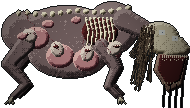
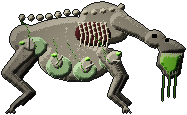
Mother Hollow redrawn as a giant Pallid Prowler
Claude-Session: https://claude.ai/code/session_01Jpd5tdDJTR7BVueAYV1KDM

diff --git a/ArtSource/make_boss_concepts.py b/ArtSource/make_boss_concepts.py
@@ -122,67 +122,59 @@ def orderly():
 
 # ------------------------------------------------------------------ MOTHER HOLLOW: a bloated pale pack-mother, her brood growing out of her flank
 def mother_hollow():
-    SKIN = ramp("#161213", "#2a2223", "#473a3b", "#6e5c5c", "#948280")
-    SKIN_F = ramp("#0b0909", "#151112", "#221b1c", "#352b2d", "#4a3e40")
-    SAC = ramp("#2a1418", "#4e2a30", "#7a4a4e", "#a87678", "#d0a8a2")
-    PUP = ramp("#2a2422", "#4e4440", "#7e716a", "#b0a398", "#d8cdc0")
-    HAIR = ramp("#0a0806", "#1a1410", "#2e241c", "#463a2e", "#665646")
+    # Built from the Pallid Prowler's own look (Resources/Sprites/Mutants/mutant_hd_pallid_prowler.png): a lean bone-grey hound with a ridged shoulder hump, thin long legs and an acid-green glowing maw. She is that, grown huge and swollen with her brood; the pups are small Pallid Prowlers pushing out of sacs, mouths already green.
+    SKIN = ramp("#1a1916", "#363329", "#625d50", "#958e7c", "#c4bca8")
+    SKIN_F = ramp("#0d0c0b", "#181714", "#27251f", "#3d3a31", "#57534a")
+    SAC = ramp("#1c241a", "#36482e", "#5e7a50", "#8fb07c", "#c4e0b0")
+    PUP = ramp("#2a2822", "#4c493e", "#797464", "#a9a390", "#d4cdb8")
+    GREEN = ramp("#0c2606", "#1f5a0c", "#46a018", "#82e034", "#d2ff90")
     S = (212, 128); L, part = mk(S); rnd = random.Random(11)
-    # far legs, long and wrong-jointed
-    part(lambda m: m.tube([(132, 66), (142, 88), (134, 104), (144, 114)], [9, 6, 4.4, 3.4]), SKIN_F, tex=0.1, seed=1)
-    part(lambda m: m.tube([(54, 70), (40, 90), (52, 106), (42, 116)], [11, 7, 5, 3.6]), SKIN_F, tex=0.1, seed=2)
-    # the body: a bloated barrel, the belly sagging nearly to the ground, hips narrow, the spine a ridge
-    part(lambda m: m.ell(84, 50, 44, 24, -5).ell(90, 74, 40, 24, 2).ell(134, 48, 26, 26, 8).ell(44, 52, 20, 20, 0), SKIN, tex=0.18, seed=3, depth=7.0)
+    # far legs: thin and long like the Prowler's, folded too far
+    part(lambda m: m.tube([(132, 66), (146, 90), (138, 106), (150, 116)], [8, 5.4, 4, 3]), SKIN_F, tex=0.1, seed=1)
+    part(lambda m: m.tube([(54, 70), (38, 92), (54, 106), (44, 116)], [10, 6.4, 4.6, 3.2]), SKIN_F, tex=0.1, seed=2)
+    # the body: the Prowler's hunched hump of shoulder, a narrow chest, the belly swollen and hanging
+    part(lambda m: m.ell(84, 46, 40, 15, -6).ell(126, 36, 26, 20, 16).ell(46, 52, 15, 14, 0).ell(96, 74, 36, 20, 2), SKIN, tex=0.16, seed=3, depth=5.5)
     sp = Mask(S)
-    for i in range(14): x = 150 - i * 8.4; sp.ell(x, 28 + abs(math.sin(i * 0.5)) * 3 + (i * 0.35), 3.0 - i * 0.05, 2.6)
+    for i in range(12): x = 142 - i * 9; sp.ell(x, 20 + abs(math.sin(i * 0.55)) * 2.5 + (i * 0.9), 3.0 - i * 0.05, 2.7)
     L.append(shade(sp, BONE, depth=1.7))
-    # ribs splayed through the near flank
     rb = Mask(S)
-    for k in range(7): x0 = 108 + k * 4.2; rb.tube([(x0, 38), (x0 + 3, 52 + k * 0.6), (x0 + 1, 66)], [2.2, 2.0, 1.2])
+    for k in range(7): x0 = 100 + k * 4.4; rb.tube([(x0, 36), (x0 + 3, 48 + k * 0.6), (x0 + 1, 60)], [2.2, 2.0, 1.2])
     L.append(shade(rb, BONE, depth=1.3))
-    cav = Mask(S); cav.ell(122, 52, 18, 14, 4); L.insert(len(L) - 1, shade(cav, DARK, depth=2.2, tex=0.08, seed=5))
-    # the brood: sacs along the flank and belly, a pup's head pushing out of each, jaws working
-    for (cx, cy, r) in ((58, 58, 13), (82, 76, 14), (108, 80, 13), (132, 72, 11)):
-        part(lambda m, a=(cx, cy, r): m.ell(a[0], a[1], a[2], a[2] * 0.85), SAC, tex=0.12, seed=cx, depth=3.2)
-    # near legs
-    part(lambda m: m.tube([(124, 66), (138, 88), (130, 106), (142, 118)], [15, 10, 7, 5]), SKIN, tex=0.12, seed=6, bias=-0.1)
-    part(lambda m: m.tube([(48, 64), (30, 84), (48, 104), (34, 118)], [18, 12, 8, 5]), SKIN, tex=0.12, seed=7, bias=-0.1)
+    cav = Mask(S); cav.ell(114, 47, 18, 12, 4); L.insert(len(L) - 1, shade(cav, DARK, depth=2.2, tex=0.08, seed=5))
+    # the brood: pale sacs with green veins along the belly and flank
+    for (cx, cy, r) in ((56, 60, 12), (80, 80, 13), (106, 84, 12), (130, 74, 10)):
+        part(lambda m, a=(cx, cy, r): m.ell(a[0], a[1], a[2], a[2] * 0.85), SAC, tex=0.14, seed=cx, depth=3.2)
+    part(lambda m: m.tube([(124, 66), (140, 90), (132, 108), (146, 120)], [13, 8.4, 6, 4.4]), SKIN, tex=0.12, seed=6, bias=-0.1)
+    part(lambda m: m.tube([(48, 64), (28, 86), (50, 106), (34, 120)], [16, 10, 6.4, 4.4]), SKIN, tex=0.12, seed=7, bias=-0.1)
     pw = Mask(S)
-    for dx in (-4, 0, 4): pw.tube([(142, 118), (144 + dx, 124)], [2.0, 0.8]); pw.tube([(34, 118), (31 + dx, 124)], [2.0, 0.8])
+    for dx in (-4, 0, 4): pw.tube([(146, 120), (148 + dx, 126)], [2.0, 0.8]); pw.tube([(34, 120), (31 + dx, 126)], [2.0, 0.8])
     L.append(shade(pw, BONE, depth=1.0))
-    # neck and head: a long dropped neck, a skull-like muzzle, the jaw unhinged, milk-blind eyes
-    part(lambda m: m.tube([(146, 40), (166, 50), (178, 58)], [22, 18, 15]), SKIN, tex=0.12, seed=8, depth=4.0)
+    # the neck dropped forward and the Prowler's long wedge of a head, huge, the jaw hanging open on a green glow
+    part(lambda m: m.tube([(140, 34), (160, 44), (174, 54)], [18, 13, 10]), SKIN, tex=0.12, seed=8, depth=3.4)
     HL, hp = mk(S)
-    hp(lambda m: m.ell(182, 58, 19, 16, 8).poly([(176, 50), (204, 58), (212, 68), (210, 74), (186, 78)]), BONE, tex=0.1, seed=9, depth=3.2, bias=-0.1)
-    hp(lambda m: m.poly([(180, 74), (210, 76), (204, 106), (190, 112), (176, 90)]), ramp("#1a1210", "#33241f", "#58423a", "#85685a", "#b08e7c"), depth=1.8, tex=0.1, seed=10)
-    hp(lambda m: m.poly([(182, 75), (208, 77), (202, 100), (190, 106), (180, 90)]), DARK, depth=1.0)
+    hp(lambda m: m.ell(176, 52, 10, 8.5, 8).poly([(172, 47), (196, 54), (206, 61), (204, 65), (182, 67)]), SKIN, tex=0.1, seed=9, depth=3.2)
+    hp(lambda m: m.poly([(180, 66), (204, 66), (200, 88), (190, 92), (178, 78)]), ramp("#14130f", "#2a2820", "#48443a", "#6e695a", "#9a937e"), depth=1.8, tex=0.1, seed=10)
+    hp(lambda m: m.poly([(182, 66), (202, 67), (198, 84), (190, 88), (181, 76)]), GREEN, depth=3.0)
     hm_ = paint(S, HL)
-    for x in range(184, 210, 2): px(hm_, [(x, 75), (x, 76), (x, 79 if x % 4 == 0 else 77), (x, 80 if x % 6 == 0 else 77)], rgb("#dcd2b8"))
-    for x in range(186, 204, 3): px(hm_, [(x, 103), (x, 102)], rgb("#b0a688"))
-    for (ex, ey) in ((181, 50), (194, 56)): px(hm_, [(ex + i, ey + j) for i in range(0, 6) for j in range(0, 5)], rgb("#cfd2cc")); px(hm_, [(ex + 3, ey + 2)], rgb("#5a6a7a"))     # milk-blind eyes, a pinprick iris
+    for x in range(182, 204, 2): px(hm_, [(x, 66), (x, 67), (x, 70 if x % 4 == 0 else 68)], rgb("#e4e0cc"))
+    for x in range(184, 198, 3): px(hm_, [(x, 86), (x, 85), (x, 83 if x % 6 == 0 else 84)], rgb("#c0bba4"))
+    px(hm_, [(x, y) for x in range(173, 178) for y in range(47, 51)], rgb("#050503"))                          # a socket, no eye: it has none
+    px(hm_, [(x, y) for x in range(186, 190) for y in range(52, 55)], rgb("#050503"))
     L.append(hm_)
-    # black drool, and her hair: a woman's hair falling from the back of the skull down over the neck and chest
     dr = paint(S, [])
-    for x in (186, 192, 198, 204): line(dr, x, 104, x - 1, 124 + (x % 5), rgb("#08070a")); px(dr, [(x - 1, 125 + (x % 5))], rgb("#241a30"))
-    for i in range(46):
-        x0 = 170 + rnd.uniform(-8, 6); y0 = 48 + rnd.uniform(-4, 6); ln = rnd.uniform(26, 58); sw = rnd.uniform(-10, 4)
-        pts = [(x0 + sw * (k / 8) ** 1.5 - k * 0.6, y0 + k * ln / 8) for k in range(9)]
-        for a, b in zip(pts, pts[1:]): line(dr, a[0], a[1], b[0], b[1], HAIR[rnd.choice((1, 2, 3, 3, 4))])
+    for x in (184, 190, 196): line(dr, x, 88, x - 1, 108 + (x % 5), GREEN[2]); px(dr, [(x - 1, 109 + (x % 5))], GREEN[4])           # green drool
     L.append(dr)
     hm = paint(S, L)
-    # the pups: heads pushing out of the sacs, eyes sealed, mouths open, one half out
-    for (cx, cy, r, ang) in ((58, 58, 13, 200), (82, 76, 14, 250), (108, 80, 13, 280), (132, 72, 11, 320)):
+    # the pups: small Pallid Prowlers, pale, green-mouthed, pushing out of the sacs, a front paw already out
+    for (cx, cy, r, ang) in ((56, 60, 12, 200), (80, 80, 13, 250), (106, 84, 12, 280), (130, 74, 10, 320)):
         a = math.radians(ang); hx, hy = cx + math.cos(a) * r * 0.55, cy + math.sin(a) * r * 0.5
-        hd = Mask(S); hd.ell(hx, hy, 8, 6.6, ang - 180); hm.alpha_composite(shade(hd, PUP, depth=2.2, tex=0.08, seed=cx))
-        mo = Mask(S); mo.ell(hx + math.cos(a) * 3.4, hy + math.sin(a) * 3.0, 2.6, 1.7); hm.alpha_composite(shade(mo, DARK, depth=1.0))
-        px(hm, [(hx - 1, hy - 2), (hx + 1, hy - 2)], rgb("#1a1412"))
-        for t in range(3): px(hm, [(hx + math.cos(a) * 3.4 - 2 + t * 2, hy + math.sin(a) * 3.0 - 1)], rgb("#e8e0cc"))
-    # veins from the sacs and bruises on the hide
-    for (cx, cy) in ((58, 58), (82, 76), (108, 80), (132, 72)):
+        hd = Mask(S); hd.ell(hx, hy, 8, 6, ang - 180); hd.poly([(hx + math.cos(a) * 5, hy + math.sin(a) * 4 - 2), (hx + math.cos(a) * 11, hy + math.sin(a) * 9), (hx + math.cos(a) * 5, hy + math.sin(a) * 4 + 3)])
+        hm.alpha_composite(shade(hd, PUP, depth=2.0, tex=0.08, seed=cx))
+        mo = Mask(S); mo.ell(hx + math.cos(a) * 7, hy + math.sin(a) * 6, 2.8, 2.0); hm.alpha_composite(shade(mo, GREEN, depth=1.2))
+        pawm = Mask(S); pawm.tube([(hx, hy + 3), (hx + math.cos(a + 1.2) * 8, hy + math.sin(a + 1.2) * 8)], [2.4, 1.6]); hm.alpha_composite(shade(pawm, PUP, depth=1.0))
+    for (cx, cy) in ((56, 60), (80, 80), (106, 84), (130, 74)):
         x, y = cx, cy
-        for i in range(16): nx = x + rnd.uniform(-1.6, 1.6) - 0.7; ny = y - 1.7 + rnd.uniform(-0.6, 0.6); line(hm, x, y, nx, ny, SAC[2] if i % 2 else SAC[1]); x, y = nx, ny
-    for (cx, cy, r) in ((98, 40, 5), (70, 44, 6), (44, 56, 5)):
-        bm = Mask(S); bm.ell(cx, cy, r, r * 0.7); hm.alpha_composite(shade(bm, SAC, depth=1.4, tex=0.2, seed=cx))
+        for i in range(16): nx = x + rnd.uniform(-1.6, 1.6) - 0.7; ny = y - 1.7 + rnd.uniform(-0.6, 0.6); line(hm, x, y, nx, ny, GREEN[1] if i % 2 else GREEN[2]); x, y = nx, ny
     a_ = np.array(hm).astype(float); H_, W_ = a_.shape[:2]; yy, xx = np.mgrid[0:H_, 0:W_]
     v = np.clip(1.0 - 0.5 * (((xx - W_ / 2) / (W_ / 2)) ** 2 + ((yy - H_ * 0.5) / (H_ * 0.62)) ** 2) ** 1.1, 0.45, 1.0)
     a_[:, :, :3] *= v[:, :, None]; hm = Image.fromarray(np.clip(a_, 0, 255).astype(np.uint8), "RGBA")

diff --git a/BOSS_DESIGNS.md b/BOSS_DESIGNS.md
@@ -5,7 +5,7 @@ Direction words (for the artist, never shown to players): wrongness over gore, o
 |-|-|-|-|-|-|
 | **The Singer** (T2, Valley Mine) | A rock wall that bulges into a huge pale face; wide and static, 6 x 4 tiles | miners' hands pushing out of the rock, hard hats and lamps set into the flesh (two still lit: "two lamps still burning in the drift") | a vertical mouth that opens like a zipper, teeth down both lips, no eyes, veins in the stone | lamp amber | the mouth opens on the 11 s note; hands curl in time |
 | **The Orderly** (T6, Morgue) | A hunched giant in a stained surgical apron, one arm far too long | the apron, the rubber boots, a ward name tag | a gauze mask stitched into a grin over no face, an IV stand fused into the back, a bed rail with saw teeth as a weapon | arterial red on white | slow drag step, saw scrape, the mask breathes |
-| **Mother Hollow** (T1, Secret Cave) | A bloated pale hound the size of a cart, ribs splayed | a woman's long hair and a wedding-ring bone in the jaw | pups' heads pushing out of sacs along her flank, milk-blind eyes | bruise violet | the sacs twitch before a brood wave |
+| **Mother Hollow** (T1, Secret Cave) | The Pallid Prowler grown huge: the same lean bone-grey hound with the humped shoulder, thin folded legs and a long wedge head, swollen with her brood (redone 2026-11-20: Yan said the first version did not remind him of Pallid Prowlers) | nothing human is needed: she is a Prowler | sacs along the belly with small Prowler pups pushing out, mouths already glowing green; no eyes, only sockets | the Prowler's acid green | the sacs twitch before a brood wave, the maw glows brighter |
 | **The Ferryman** (T3, Stranded Ferry) | Tall drowned figure in an oilskin coat, rope-bound, water always running off it | a lifebelt with the ferry's name, a ticket punch | a ship's lantern for a head with something pale moving in the glass | lantern green | the lantern swings, the deck tilts |
 | **The Specimen, grown** (T4, Deep Caverns) | A brain the size of a bed on a spray of spinal legs | the lab collar still around one stalk, a name card in the slime | too many mouths on the nerve tips, an eye in the wrong place | wet pink | stalks probe in a pattern that remembers you |
 | **The Excavator** (T5, Quarry Basin) | A mining rig with a bucket of teeth, hoses like veins | a Husk fused into the cab, a hard hat on the boom | the bucket is a jaw, hydraulic fluid is dark red, the cab glass is wet from inside | rust orange | boom sweep, jaw chomp, steam vents |

diff --git a/ArtSource/WORK_LOG.md b/ArtSource/WORK_LOG.md
@@ -6801,3 +6801,4 @@ Harness passed. Not run in Unity or rendered; scene tiles are placed by coordina
 
 ## Batch 9u - boss concepts: Mother Hollow and the Ferryman (2026-11-20)
 Yan: "Mother Hollow next, then the Ferryman". `make_boss_concepts.py` now draws four bosses. Mother Hollow 188x103 (pale bloated hound, ribs through the flank, four flesh sacs each with a pup's head pushing out, a woman's hair falling from the skull, a hanging jaw), the Ferryman 123x190 (oilskin coat, rope bindings, a red-and-white lifebelt, a boat hook, a ship's lantern for a head with a pale face pressed inside the green glass, a ring of water round the boots). Concept quality, not in the game; Mother Hollow took two passes.
+- (2026-11-20, later) Yan: Mother Hollow "is supposed to spew out Pallid Prowlers, she doesn't remind me of them". Redrawn from the Pallid Prowler's own look (bone-grey hide, humped shoulder, thin legs, a wedge head, the acid-green maw); pups are small Prowlers with green mouths; hair and milk-blind eyes dropped. `mother_hollow_vs_pallid.png` shows her beside the real sprite at the same scale factor. Still concept quality (head a bit crocodile-like, sacs plain).
